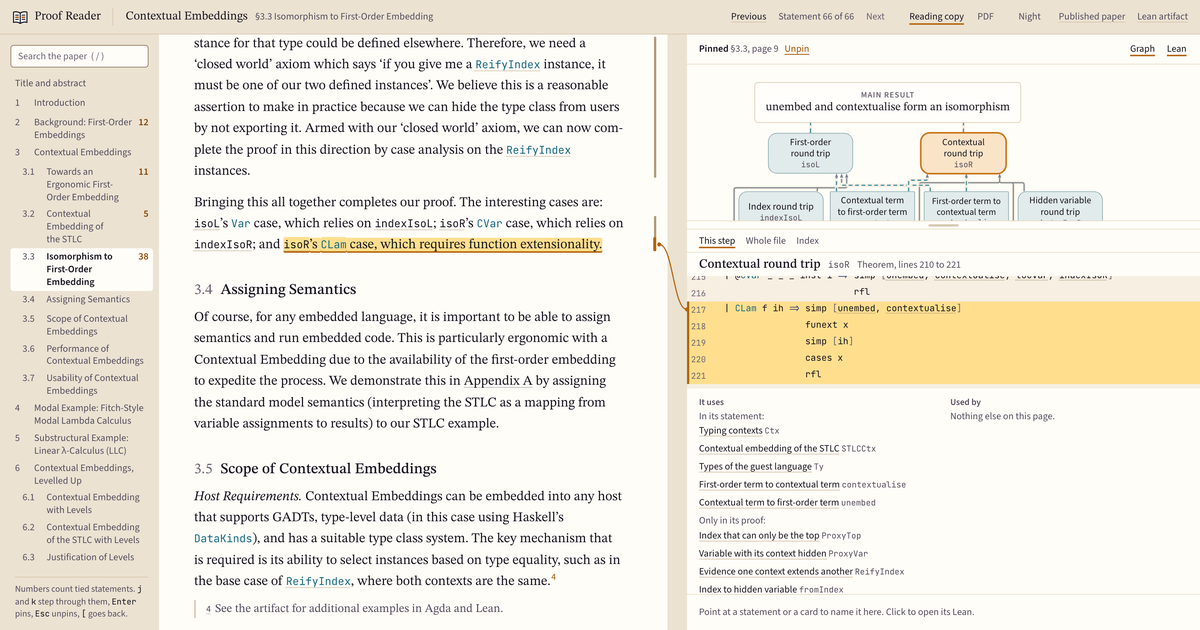
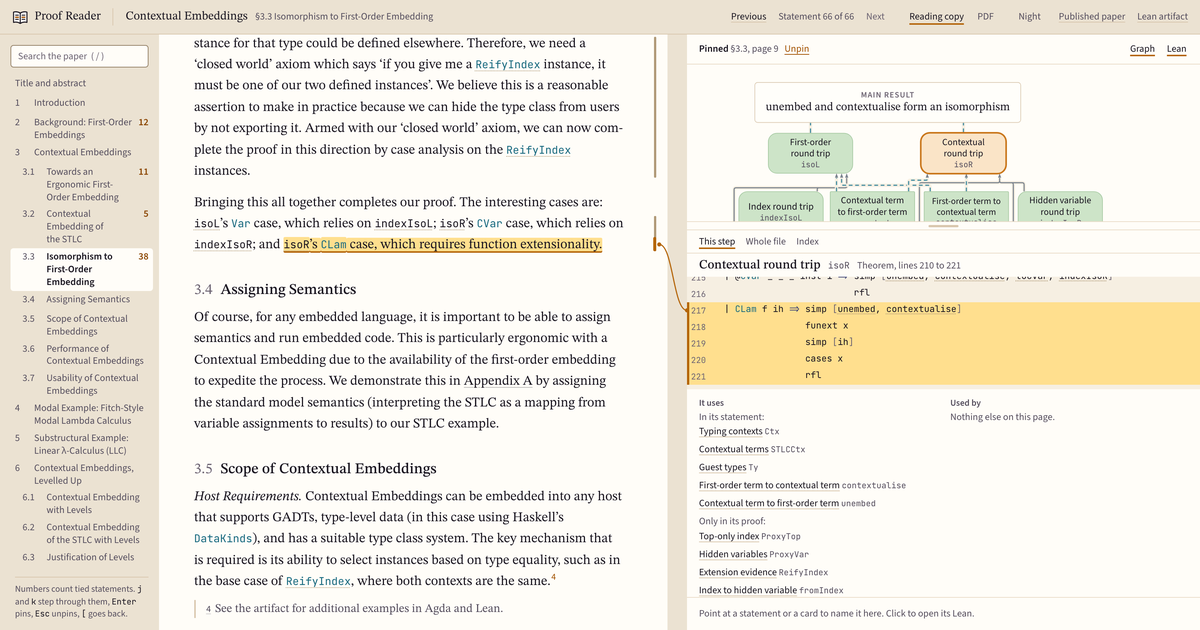
Show what Lean holds as a soft green, and give the graph the room

Changed region(s): [[0.555, 0.2111, 1.0, 0.573], [0.5858, 0.6333, 1.0, 0.9952], [0.8017, 0.6333, 0.8325, 0.6635]]

diff --git a/web/src/app/app.css b/web/src/app/app.css
@@ -166,7 +166,7 @@ button:disabled { cursor: default; }
 .proof__handle:hover span, .is-dragging .proof__handle span { background: var(--ink-3); }
 .proof[data-side] .proof__handle { width: 12px; height: auto; border: 0; border-left: 1px solid var(--rule); border-right: 1px solid var(--rule); cursor: ew-resize; }
 .proof[data-side] .proof__handle span { width: 3px; height: 40px; }
-.proof__reading { flex: none; height: 48px; display: flex; align-items: center; padding: 4px 16px; border-top: 1px solid var(--rule); overflow: hidden; }
+.proof__reading { flex: none; height: 44px; display: flex; align-items: center; padding: 4px 16px; border-top: 1px solid var(--rule); overflow: hidden; }
 .proof__reading p { margin: 0; display: -webkit-box; -webkit-box-orient: vertical; -webkit-line-clamp: 2; overflow: hidden; font-size: var(--fs-sm); line-height: 1.36; color: var(--ink-2); }
 .proof__reading b { font-weight: 600; color: var(--ink); }
 .proof__sig { font-family: var(--font-mono); font-size: 0.75rem; color: var(--ink); }
@@ -191,7 +191,7 @@ button:disabled { cursor: default; }
 .key-line--statement { stroke-dasharray: 4 3; stroke: var(--rel-formalizes); }
 .key-trail { display: inline-block; width: 12px; height: 10px; border-radius: 2px; border: 1.5px solid var(--card-border); }
 .key-trail--here { border-color: var(--lit-line); background: var(--lit-wash); }
-.key-trail--passed { background: color-mix(in oklab, var(--rel-formalizes) 16%, var(--raised)); border-color: color-mix(in oklab, var(--rel-formalizes) 55%, var(--card-border)); }
+.key-trail--lean { background: var(--lean-fill); border-color: var(--lean-fill-line); }
 
 /* Shape says definition or theorem, as in a blueprint. */
 .graph .tree .card[data-shape="definition"] { border-radius: 2px; }
@@ -201,14 +201,18 @@ button:disabled { cursor: default; }
 .graph .tree .card--leaf::after { display: none; }
 .graph .card__compact { justify-content: center; }
 .card__craw { display: block; max-width: 100%; overflow: hidden; text-overflow: ellipsis; white-space: nowrap; font-family: var(--font-mono); font-size: calc(10.5px / var(--k)); line-height: 1.2; color: var(--ink-2); }
-.graph .card[data-trail="passed"]:not(.is-selected) { background: color-mix(in oklab, var(--rel-formalizes) 16%, var(--raised)); border-color: color-mix(in oklab, var(--rel-formalizes) 55%, var(--card-border)); }
-.graph .card[data-trail="here"]:not(.is-selected) { border-color: var(--lit-line); background: var(--lit-wash); box-shadow: 0 0 0 1.5px var(--lit-line); }
+.graph .tree .card[data-lean="whole"] { background: var(--lean-fill); border-color: var(--lean-fill-line); }
+.graph .tree .card[data-lean="part"] { background: var(--lean-fill-part); border-color: color-mix(in oklab, var(--lean-fill-line) 55%, var(--card-border)); }
+.graph .tree .card[data-trail="ahead"][data-lean="whole"] { background: color-mix(in oklab, var(--lean-fill) 45%, var(--sheet)); border-color: color-mix(in oklab, var(--lean-fill-line) 50%, var(--sheet)); }
+.graph .tree .card[data-trail="ahead"][data-lean="part"] { background: color-mix(in oklab, var(--lean-fill-part) 45%, var(--sheet)); }
+.graph .tree .card[data-trail="ahead"]:not([data-shape="axiom"]) .card__ctitle { color: var(--ink-2); }
+.graph .tree .card[data-trail="here"]:not(.is-selected) { border-color: var(--lit-line); background: var(--lit-wash); box-shadow: 0 0 0 1.5px var(--lit-line); }
 .graph .link--lean_type_dependency { stroke: var(--rel-formalizes); stroke-dasharray: calc(5px / var(--k)) calc(3.5px / var(--k)); }
 
 .claims { flex: none; display: flex; flex-wrap: wrap; gap: 4px; padding: 4px 12px; font-size: var(--fs-sm); }
 .claims button { min-height: 28px; padding: 0 8px; border-radius: var(--radius-s); color: var(--ink-2); }
 .claims button[aria-pressed="true"] { background: var(--sunk); color: var(--ink); }
-.vocab { flex: none; display: flex; flex-wrap: wrap; align-items: baseline; gap: 0 10px; padding: 2px 16px; border-top: 1px solid var(--rule); font-size: var(--fs-xs); color: var(--ink-3); }
+.vocab { flex: none; display: flex; flex-wrap: wrap; align-items: baseline; gap: 0 10px; padding: 1px 12px 0 16px; border-top: 1px solid var(--rule); font-size: var(--fs-xs); color: var(--ink-3); }
 .vocab__reached { margin-left: auto; font-size: var(--fs-xs); color: var(--ink-2); font-variant-numeric: tabular-nums; }
 .vocab code { font-family: var(--font-mono); font-size: 0.6875rem; color: var(--ink-3); }
 .vocab button { min-height: 24px; font-size: var(--fs-xs); color: var(--ink-2); border-bottom: 2px solid transparent; }

diff --git a/web/src/proof/MapPane.tsx b/web/src/proof/MapPane.tsx
@@ -1,6 +1,6 @@
 // The graph of the proof, adapted from Lean Exposition's map beside the paper. It
 // comes along with the reading: every branch drawn, the statement under the reading
-// line outlined, what has been passed tinted. The camera moves only if a card has left
+// line in amber, what lies ahead quieter. A soft green says what Lean holds. The camera moves only if a card has left
 // the view, and when the Lean rises it pans only as far as keeps the card in the band
 // left above it; closing the Lean puts the camera back exactly. The reader stays in
 // charge: moving the map pauses following.
@@ -64,10 +64,10 @@ export const MapPane = memo(function MapPane({ ref, edition, graph, lit, pointed
   const writeTrail = useCallback(() => {
     body.current?.querySelectorAll<HTMLElement>(".card[data-record]").forEach((card) => {
       const id = card.dataset.record!;
-      const state = litIds?.has(id) ? "here" : passed.has(id) ? "passed" : "";
+      const state = litIds?.has(id) ? "here" : passed.has(id) || id === goal ? "" : "ahead";
       if ((card.dataset.trail ?? "") !== state) card.dataset.trail = state;
     });
-  }, [litIds, passed]);
+  }, [goal, litIds, passed]);
   useEffect(writeTrail);
 
   const inView = useCallback((ids: readonly string[]) => {
@@ -236,7 +236,7 @@ export const MapPane = memo(function MapPane({ ref, edition, graph, lit, pointed
           <span className="vocab__name">Types</span>
           {types.map((d) => (
             <button key={d.id} type="button" data-vocab={d.id} className={lit.includes(d.id) ? "is-lit" : ""} onClick={() => onSelect(d.id)} onMouseEnter={() => onHover(d.id)} onMouseLeave={() => onHover(null)} onFocus={() => onHover(d.id)} onBlur={() => onHover(null)}>
-              {d.plain} <code>{d.id}</code>
+              {d.plain}
             </button>
           ))}
           <span className="vocab__reached">Reached {reached} of {edition.declarations.length}</span>
@@ -247,17 +247,17 @@ export const MapPane = memo(function MapPane({ ref, edition, graph, lit, pointed
   );
 });
 
-/** What a card's shape and a line's pattern say, for someone who has not seen a blueprint. */
+/** What a card's shape, fill and lines say, for someone who has not seen a blueprint. */
 function GraphKey() {
   return (
     <p className="graph__key" aria-label="Key to the graph">
       <span><i className="key-shape key-shape--definition" aria-hidden="true" />Definition</span>
-      <span><i className="key-shape key-shape--theorem" aria-hidden="true" />Theorem, proved</span>
+      <span><i className="key-shape key-shape--theorem" aria-hidden="true" />Theorem</span>
       <span><i className="key-shape key-shape--axiom" aria-hidden="true" />Axiom, assumed</span>
+      <span><i className="key-trail key-trail--lean" aria-hidden="true" />In Lean</span>
+      <span><i className="key-trail key-trail--here" aria-hidden="true" />Here</span>
       <span><svg width="18" height="8" aria-hidden="true"><path d="M0 4h18" className="key-line" /></svg>Proof use</span>
       <span><svg width="18" height="8" aria-hidden="true"><path d="M0 4h18" className="key-line key-line--statement" /></svg>Statement use</span>
-      <span><i className="key-trail key-trail--here" aria-hidden="true" />Here</span>
-      <span><i className="key-trail key-trail--passed" aria-hidden="true" />Passed</span>
     </p>
   );
 }

diff --git a/web/src/styles/tokens.css b/web/src/styles/tokens.css
@@ -102,6 +102,11 @@
   /* A recorded failed outcome, and only that. */
   --fail: #a04034;
 
+  /* What the Lean holds, a soft fill on a map card, as in a blueprint. */
+  --lean-fill: #cde4c8;
+  --lean-fill-part: #e6f1dc;
+  --lean-fill-line: #a3c79f;
+
   /* Connectors. Each relation type has its own colour, at rest and lit, and its
      own pattern; every rest colour keeps at least 3:1 against the ground.
      A lit support route is amber (attention); lit assumptions and Lean
@@ -185,6 +190,9 @@
   --lit-line: #f3a43a;
   --lit-glow: rgb(243 164 58 / 0.28);
   --fail: #ea8470;
+  --lean-fill: #2f4b3b;
+  --lean-fill-part: #32393b;
+  --lean-fill-line: #4f7559;
   --rel-supports: #6a7581;
   --rel-supports-lit: #f3a43a;
   --rel-assumes: #7d68b8;
@@ -231,6 +239,9 @@
     --lit-line: #f3a43a;
     --lit-glow: rgb(243 164 58 / 0.28);
     --fail: #ea8470;
+    --lean-fill: #2f4b3b;
+    --lean-fill-part: #32393b;
+    --lean-fill-line: #4f7559;
     --rel-supports: #6a7581;
     --rel-supports-lit: #f3a43a;
     --rel-assumes: #7d68b8;

diff --git a/web/src/paper/PaperPage.tsx b/web/src/paper/PaperPage.tsx
@@ -606,7 +606,7 @@ export function PaperPage({ edition }: { edition: Edition }) {
   ) : point?.kind === "text" ? (
     <p><b>{point.title}.</b> {point.text}</p>
   ) : named.length ? (
-    <p><b>{named.map((d) => d.plain).join(", ")}.</b> It has Lean: {named.map((d) => `lines ${d.line} to ${d.end_line}`).join(", ")}. Click to read it.</p>
+    <p><b>{named.map((d) => d.plain).join(", ")}</b> <code className="proof__sig">{named.map((d) => d.id).join(", ")}</code>. It has Lean: {named.map((d) => `lines ${d.line} to ${d.end_line}`).join(", ")}. Click to read it.</p>
   ) : line.zone === "after" ? (
     <p>The {edition.coverage.ties} ties on this page are in {edition.coverage.sections.map(sectionLabel).join(", ")}. {lean.scope}</p>
   ) : (

diff --git a/web/src/model/graph.ts b/web/src/model/graph.ts
@@ -41,6 +41,8 @@ export interface ArgNode {
   label: string;
   /** The word on the card, when the kind's own name is too general. */
   kindLabel?: string;
+  /** How much of this Lean holds: whole, or part where it contains sorry. An axiom has its own mark. */
+  leanFill?: "whole" | "part";
   /** The raw Lean name, drawn small under a plain title. */
   rawName?: string;
   /** The form a card takes: blueprint readers read definition and theorem from its shape. */

diff --git a/web/src/map/ArgumentTree.tsx b/web/src/map/ArgumentTree.tsx
@@ -2429,6 +2429,7 @@ export const ArgumentTree = forwardRef<MapViewHandle, TreeProps>(function Argume
               data-kind={node.kind}
               data-shape={node.shape}
               data-raw={node.rawName}
+              data-lean={node.leanFill}
               data-full={node.label}
               data-section={section ?? undefined}
               className={cardClass(lid, node, leaf)}

diff --git a/web/src/model/fromEdition.ts b/web/src/model/fromEdition.ts
@@ -51,6 +51,7 @@ export function editionGraph(edition: Edition): ArgGraph {
       rawName: d.id,
       declaration: d.id,
       shape: shapeOf(d),
+      leanFill: d.keyword === "axiom" ? undefined : edition.analytics.sorry.includes(d.id) ? "part" : "whole",
       status: d.keyword === "axiom" ? "axiom" : "kernel_checked",
       origin: LEAN,
     });
